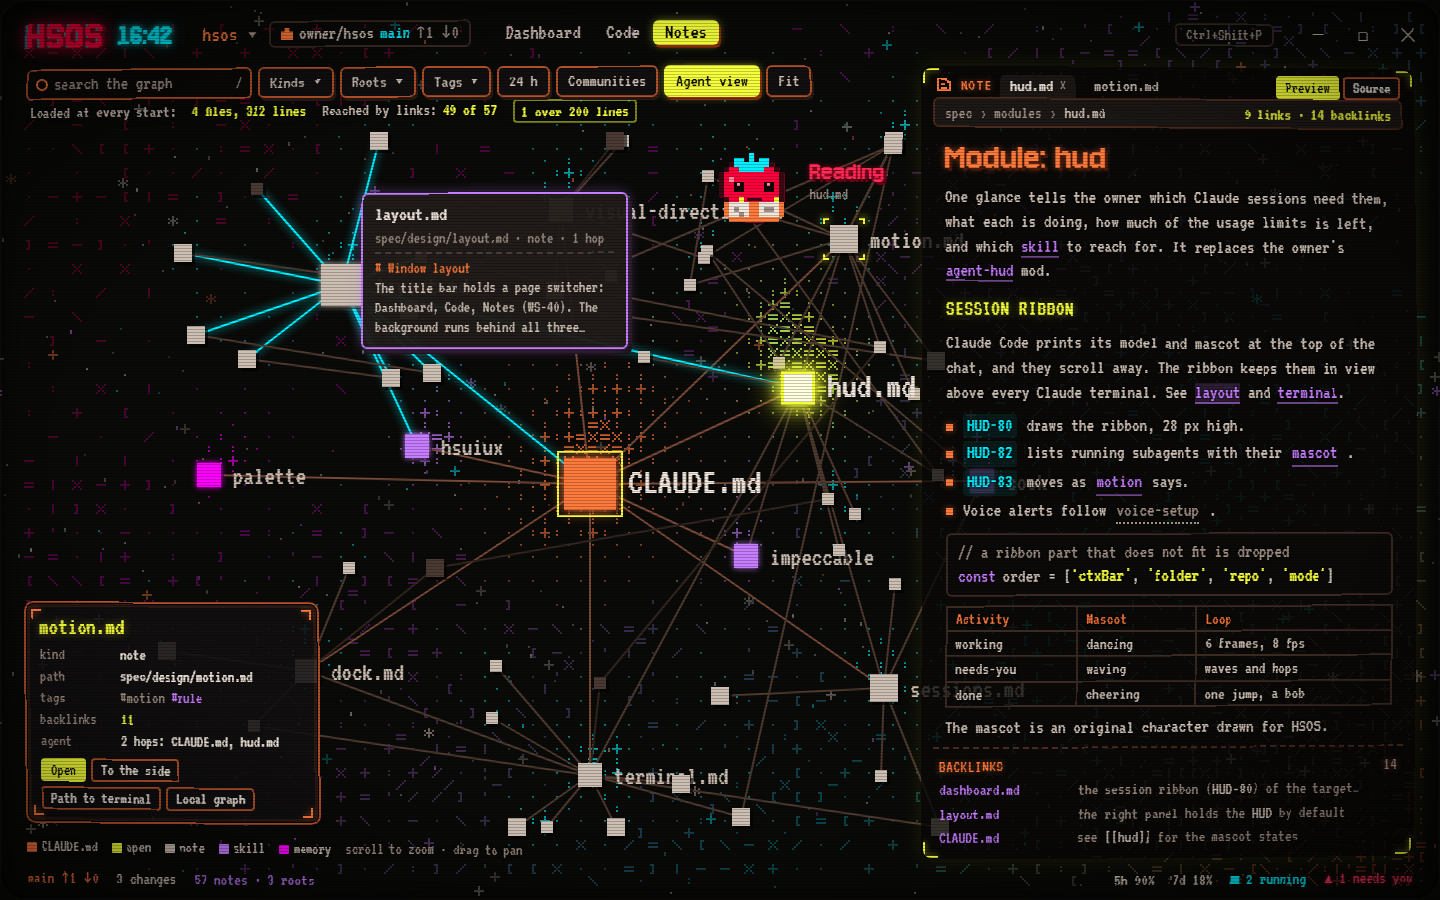
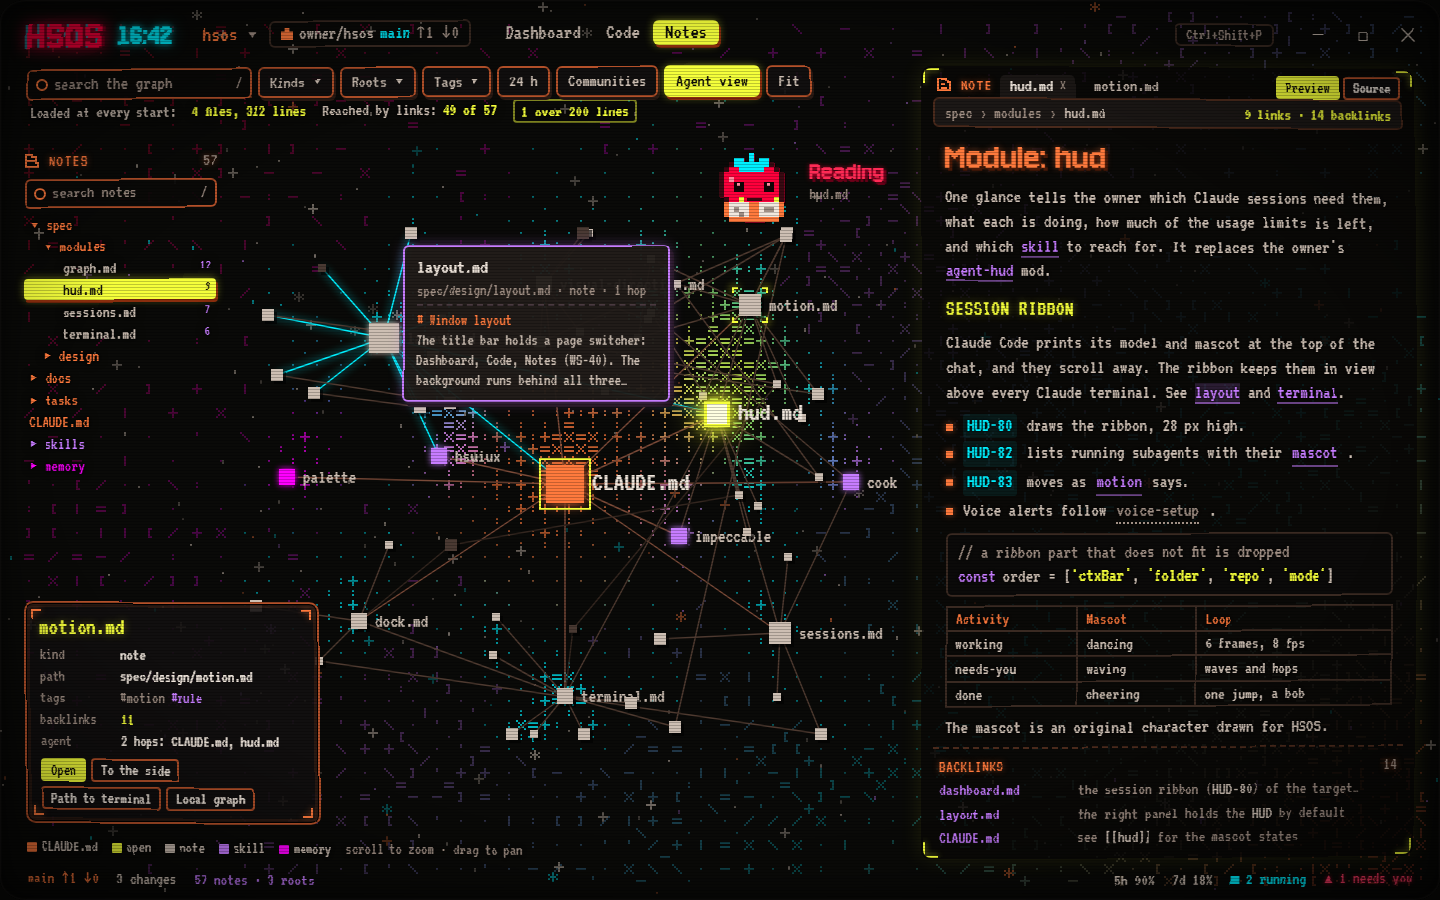
design(notes): add a small notes list to layout C

diff --git a/design-round/notes/phosphor-notes.html b/design-round/notes/phosphor-notes.html
@@ -69,7 +69,15 @@ button { font: inherit; color: inherit; background: none; border: 0; cursor: poi
 [data-layout="c"] .work { grid-template-columns: 1fr 500px; grid-template-areas: "graph note"; gap: 14px 30px; --sheet-alpha:.78; }
 [data-layout="c"] .gwrap { grid-column: 1 / -1; grid-row: 1; }
 [data-layout="c"] .sheet { grid-column: 2; grid-row: 1; z-index: 1; }
-[data-layout="c"] .side, [data-layout="c"] .rightcol { display: none; }
+[data-layout="c"] .rightcol { display: none; }
+[data-layout="c"] .side { position: absolute; left: var(--edge); top: 86px; width: 196px; z-index: 2; padding: 4px 0; gap: 6px;
+  background: none; border: 0; box-shadow: none; }
+[data-layout="c"] .side .cn, [data-layout="c"] .side .recent { display: none; }
+[data-layout="c"] .side li { text-shadow: 0 0 4px #000, 0 0 8px #000; font-size: 17px; }
+[data-layout="c"] .side li.open { text-shadow: none; }
+[data-layout="c"] .side .search { background: rgba(11,10,9,.9); height: 30px; }
+[data-layout="c"] .side .h2 { text-shadow: var(--g-orange), 0 0 6px #000; }
+[data-layout="c"] .card { left: 0; bottom: 34px; }
 
 /* pixel components */
 .cn { position: absolute; width: 10px; height: 10px; pointer-events: none; border: 0 solid var(--terra); filter: drop-shadow(0 0 3px rgba(255,122,61,.6)); z-index: 2; }
@@ -243,8 +251,8 @@ button { font: inherit; color: inherit; background: none; border: 0; cursor: poi
           <li class="dir" style="color:var(--lav)">▸ skills</li>
           <li class="dir" style="color:var(--mag)">▸ memory</li>
         </ul>
-        <div class="h2" style="margin-top:6px">Recent</div>
-        <ul>
+        <div class="h2 recent" style="margin-top:6px">Recent</div>
+        <ul class="recent">
           <li>motion.md</li><li>layout.md</li><li>design-rounds.md</li>
         </ul>
       </section>
@@ -420,7 +428,7 @@ function sizeGraph() {
   const sr = screen.getBoundingClientRect(), k = 1440 / sr.width, ar = document.querySelector('.graph-area').getBoundingClientRect();
   gc.width = 1440; gc.height = 900;
   let rx = (ar.left - sr.left) * k, ry = (ar.top - sr.top) * k, rw = ar.width * k, rh = ar.height * k;
-  if (LAYOUT === 'c') rw -= 260; // the graph's centre sits in the part the note does not cover
+  if (LAYOUT === 'c') { rx += 210; rw -= 210 + 520; } // the graph's centre sits in the part the note does not cover
   gs = Math.min(rw / 320, rh / 250); gox = rx + (rw - 320 * gs) / 2; goy = ry + (rh - 250 * gs) / 2;
 }
 const toWorld = (px, py) => [cam.x + ((px - gox) / gs - 160) / cam.z, cam.y + ((py - goy) / gs - 125) / cam.z];

diff --git a/design-round/notes/compare.html b/design-round/notes/compare.html
@@ -37,7 +37,7 @@
 
   <section>
     <h2>C. Open air</h2>
-    <p>Matches the Code page you chose. The graph fills the whole page and runs on behind the note, which floats on the right framed only by corner brackets and see-through, so the graph's light shows behind the text. The toolbar, details card and hover preview float over the graph.</p>
+    <p>Matches the Code page you chose. The graph fills the whole page and runs on behind the note, which floats on the right framed only by corner brackets and see-through, so the graph's light shows behind the text. The toolbar, details card and hover preview float over the graph. Round 2: a small notes list floats on the left like Files on the Code page (search, the note tree with link counts, the open note in yellow), and the graph is centred between the list and the note.</p>
     <figure><a href="phosphor-notes.html?layout=c"><img src="shots/notes-c.png" alt="Layout C: the graph fills the page, the note floats over it"></a></figure>
   </section>
 </main>

diff --git a/design-round/design-rounds.md b/design-round/design-rounds.md
@@ -108,3 +108,11 @@ Every option shows the same moment: `hud.md` open in the notes dock (WS-43) as a
 - B, reader: notes list on the left, the note as a wide centre column, the local graph (GRAPH-30, depth 2, not expanded through CLAUDE.md) and backlinks on the right.
 - C, open air: matches Code page C. The graph fills the page and runs on behind the see-through note (0.78 opacity, corner brackets).
 - Open points for the spec: in C, graph labels under the note show through its text; the graph should fade labels behind the sheet or the sheet needs a higher opacity. The notes list in B is not a spec'd panel (Files covers it on the Code page). The selection bracket colour (yellow, the focus colour) is new to GRAPH-24.
+
+## Notes page, round 2 (2026-11-18): layout C with a notes list
+
+Owner chose layout C and asked for a small notes list in it.
+
+- A notes list floats on the left without a box, like Files on Code page C: a search field, the note tree (spec, modules with link counts, docs, tasks, CLAUDE.md, skills, memory) with the open note in yellow. Recent is left out to keep it small.
+- The graph is centred in the space between the list and the note, so it no longer runs behind the note. This also settles the round 1 open point about graph labels showing through the note's text.
+- Open point for the spec: the notes list is a new side view for the Notes page (a filtered Files view: markdown notes only, with link counts from the graph index).
